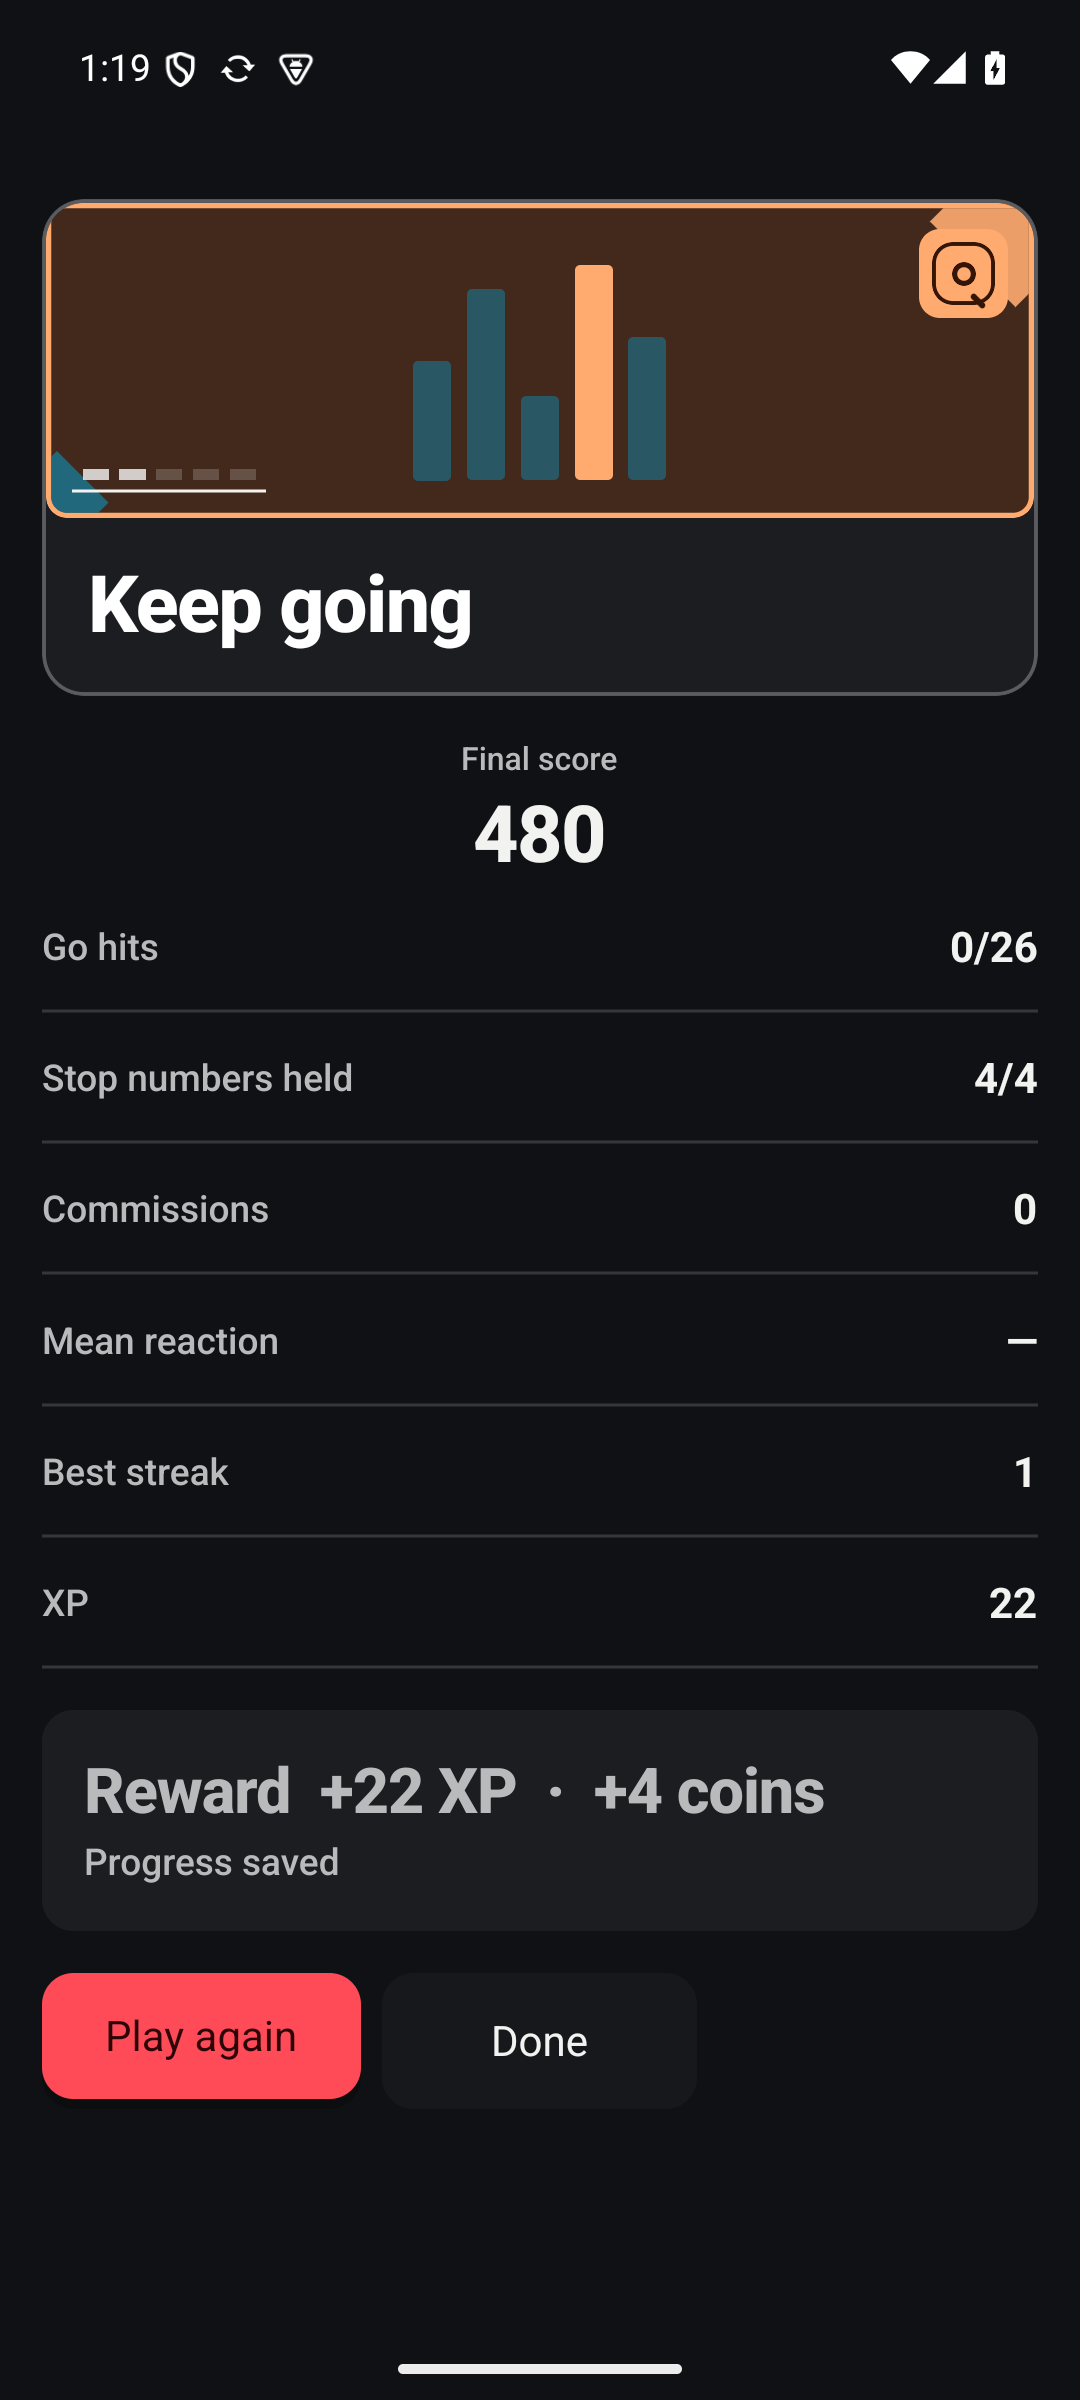
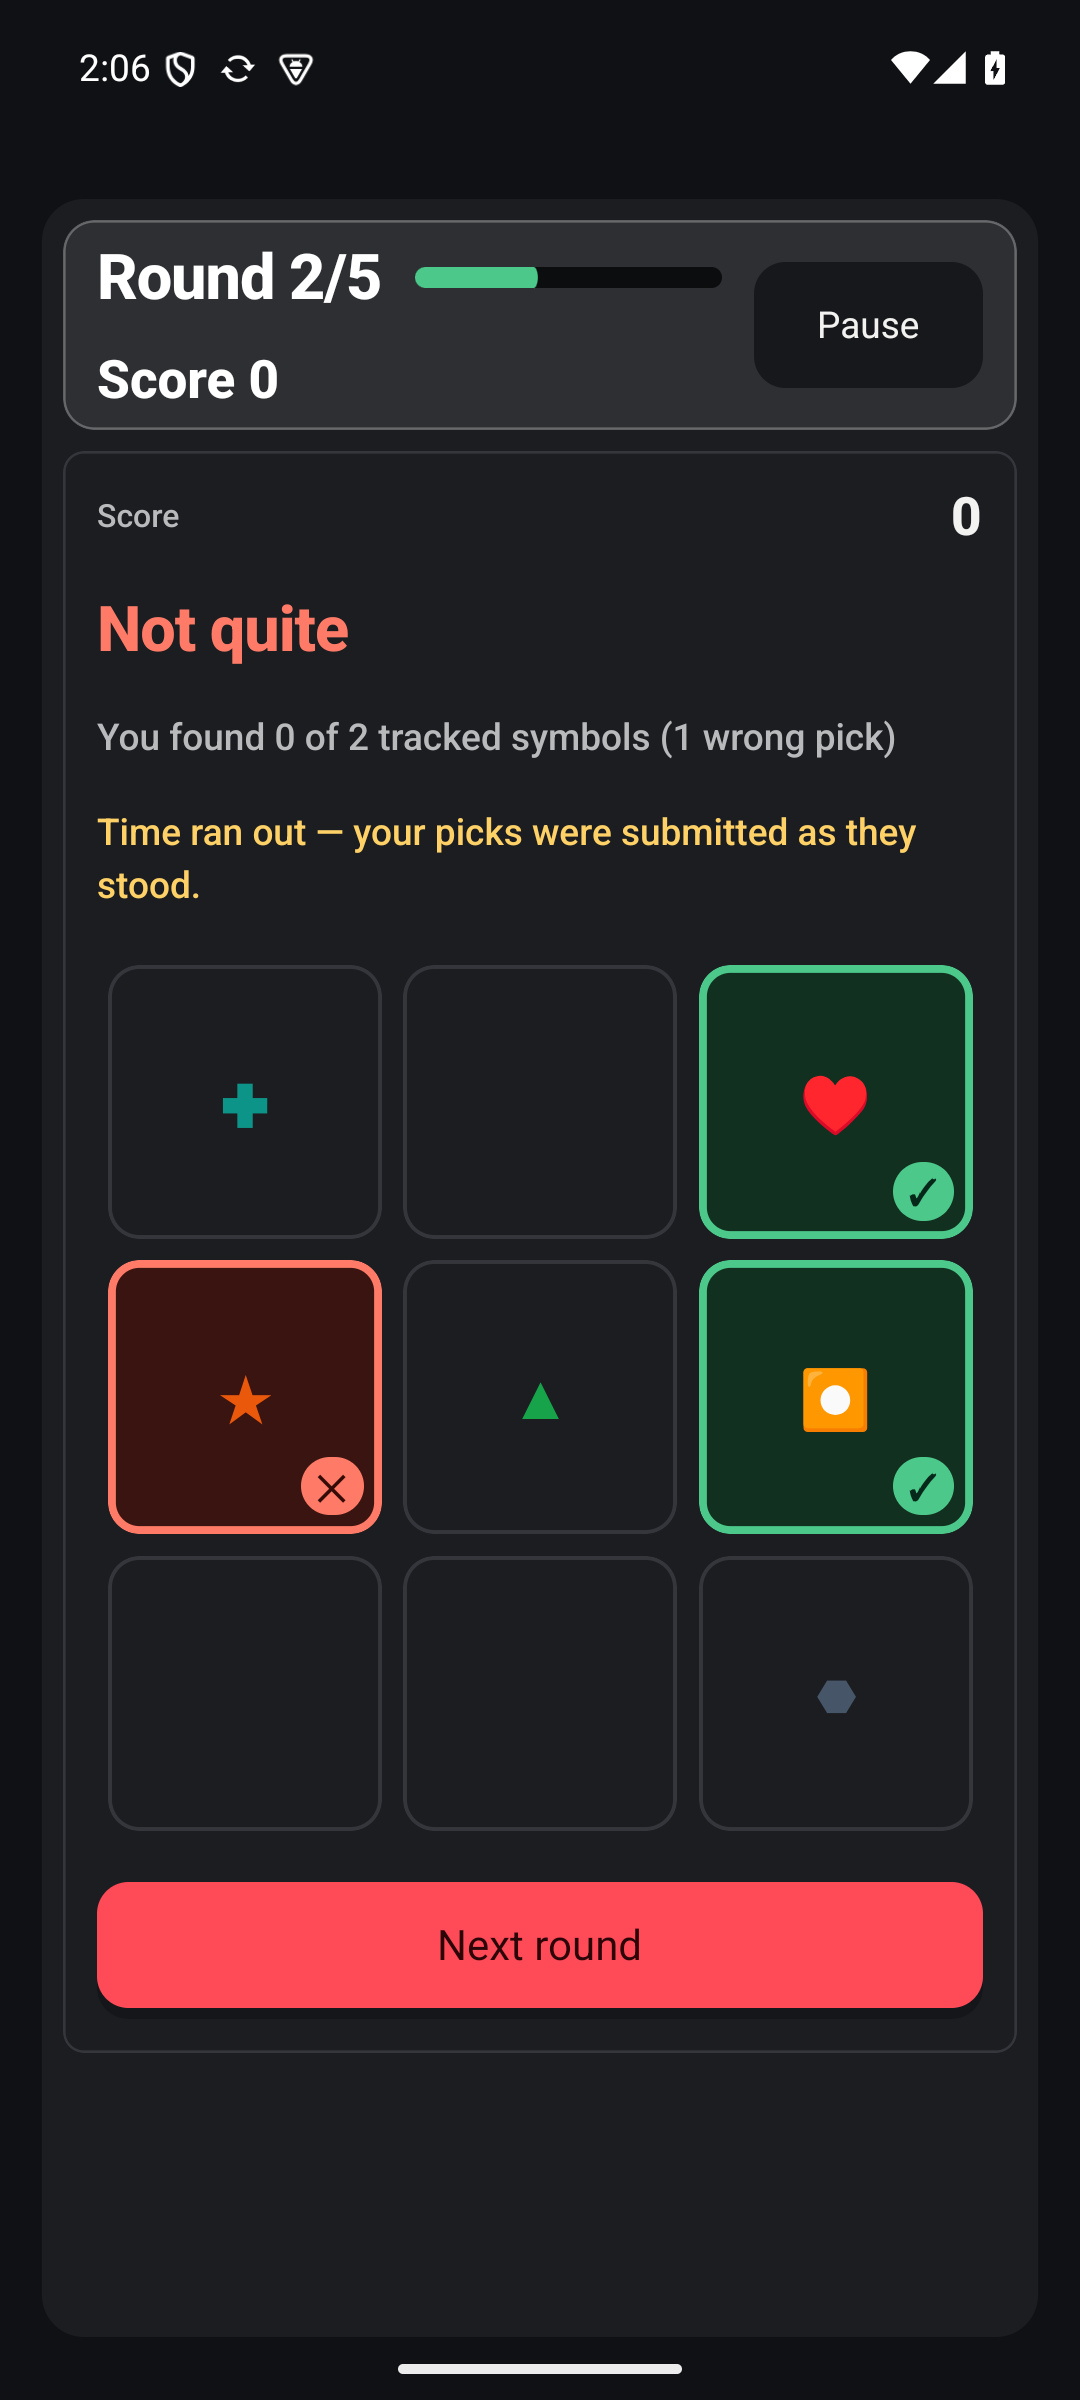
076-f: validate attention-sustained-vigilance (Signal Watch) and record the device recovery evidence
Game 2 of 42 now carries a complete, identity-verified current-device row on
the terminal APK. All six sections are filled with verbatim device evidence:
- Active board: resource-ids attention-sustained-vigilance.*, 'GO' response
  button, Pause, trial/score chips.
- Scored feedback quoted verbatim: timeout reveal 'Missed one' with a11y ndesc
  'Missed, no tap in time. Blank. Stop number 6.', plus observed correct-hit
  scoring moving the score chip.
- Pause/resume quoted verbatim: 'Paused' / 'The challenge is hidden and the
  timers are frozen.' / Resume|Quit.
- Final result: 'Keep going', Score 591, Go hits 1/26, Stop numbers held 4/4,
  Commissions 0, Mean reaction 862 ms, XP 25.
- Input: every first-try tap registered in <1 s; safe exit and re-open proven.
- DEFECT REPRODUCED (section 6): the GO response-button label is dark-maroon
  on red and nearly disappears in the post-trial reveal state, exactly when the
  next response is required. Filed for task 4.1; not yet repaired or hashed.

Also adds evidence/DEVICE_RECOVERY.md (the measured reason the device lane came
back) and amends DEVICE_BLOCKER.md to point at it, plus .agent/STATE.md
correction #4 so the durable state no longer claims BLOCKED_HOST_ANDROID_EMULATOR
as current.

diff --git a/openspec/changes/076-f-final-product-certification/evidence/current-device/attention-sustained-vigilance/review.md b/openspec/changes/076-f-final-product-certification/evidence/current-device/attention-sustained-vigilance/review.md
@@ -1,0 +1,73 @@
+# Current-device acceptance — `attention-sustained-vigilance`
+
+- Date: 2026-10-10T10:06:17+08:00
+- Controller: external ARTEMIS (D:\Tools\artemis), profile `pro` (lean: checker/step-summarizer/committee/planner-validation/video disabled - see ../../CONTROLLER.md), locked app `com.braintraining.app`
+- Test name: `cert076f-game-attention-sustained-vigilance`
+- ARTEMIS session: `174c9016-6927-43e6-bd7a-4f62f1d9ddbb` (raw trace external to Git)
+- Device: emulator-5570 / AVD braintraining-ui35 (Android 15, SDK 35, sdk_gphone64_x86_64 1080x2400)
[1 lines of base64/hex data omitted]
+- Device hash: installed base.apk matched e243341fd4f9641810038a2695540fdd0b9b29634ebb91b48afbbde591b7635f exactly (pulled from emulator-5570)
+- Controller exit code: 1 (the CLI client's own 1800 s wait cap, NOT the journey outcome)
+- Controller review note: PRESENT (all six headings filled)
+
+## Controller state-review log (scrubbed)
+
+# game_state_review_log — attention-sustained-vigilance (com.braintraining.app)
+
+## 1. Active Play Board
+(Verified on live session 2 via screenshot + `uiautomator dump`, ids `attention-sustained-vigilance.*`)
+- Header chips: "Trial 22/30" + green progress bar (a11y desc "22 of 30 rounds complete"); "Score 360".
+- Visible controls (literal labels): "Pause" (top-right rounded button), "GO" (large red response button).
+- Score row: label "Score" (left) / value "360" (right).
+- Stimulus: one large dark rounded-square cell containing only a tiny grey center dot — current state "Blank" (a11y desc: "Blank. Keep watching for numbers; hold GO on the stop number 9.").
+- Instructions VISIBLE: "Tap GO — hold on 9" directly under the cell (plus "·" dot glyph in the cell row).
+- Hierarchy/legibility: clear top-down order (chips → score → stimulus → instruction → GO); white-on-dark text sharp and legible; no overlay; verdict/instruction area distinct from stimulus cell.
+- Board auto-advances trials without player input (idle progress observed 19→22 trials).
+
+## 2. Scored Feedback
+- EXACT verdict text (timeout reveal, device screenshot at T+16:01, Trial 19/30): **"Missed one"** — shown in yellow above the GO button.
+- Accessibility description of the same reveal, verbatim: "Missed, no tap in time. Blank. Stop number 6."
+- Context on that screen: chip "Trial 19/30", "Score 240", progress a11y "19 of 30 rounds complete".
+- Correct-hit scoring also observed: final rows "Go hits: 1/26" and "Mean reaction: 862 ms" (a tapped GO was scored; idle sessions ended 0/26 with Mean reaction "—").
+- Intro screens and unanswered boards were never counted as feedback.
+
+## 3. Pause & Resume
+(Opened via "Pause" button [754,262][983,388] during live round; dumped beneath the overlay)
+- Overlay headline: "Paused"
+- Overlay body: "The challenge is hidden and the timers are frozen."
+- Buttons (verbatim, side by side): "Resume" [204,1318][519,1444] | "Quit" [561,1323][876,1449]
+- Frozen board visible beneath: chip "Trial 2/30" (a11y "2 of 30 rounds complete"), "Score 0", "Score", instruction "Tap GO — hold on 9", "GO", "Pause" — confirming timers frozen while overlay up.
+- Resume: tapped "Resume" → board returned to live play (see heading 5 for tap-registration evidence).
+
+## 4. Final Result Screen
+(Verbatim from `uiautomator dump`, screen `attention-sustained-vigilance.results` — this is the FINAL device state of the journey, session 3)
+- Headline: "Keep going" (id attention-sustained-vigilance.result-headline)
+- Final score: 591
+- Go hits: 1/26
+- Stop numbers held: 4/4
+- Commissions: 0
+- Mean reaction: 862 ms
+- Best streak: 1
+- XP: 25
+- Reward: "Reward  +25 XP  ·  +5 coins"
+- "Progress saved"
+- Buttons: "Play again" (id attention-sustained-vigilance.restart) | "Done" (id attention-sustained-vigilance.quit)
+- Reference (earlier sessions this journey): session 1 = headline "Keep training", Score 0, Accuracy 0%, First-try rate 0%, Rounds passed 0/6, Best streak 0, Timeouts 6, XP 10, "Reward  +10 XP  ·  +2 coins", "Progress saved"; session 2 = headline "Keep going", Final score 480, Go hits 0/26, Stop numbers held 4/4, Commissions 0, Mean reaction —, Best streak 1, XP 22.
+(Session-1 draft block removed as superseded — its values are preserved in the "Reference (earlier sessions)" line above.)
+
+## 5. Input & Exit
+- Tap registration: IMMEDIATE — every tap took effect on first attempt; no retries needed anywhere in the journey. A timed GO response was scored within <1 s (Go hits 1/26, Mean reaction 862 ms, vs 0/26 / "—" in sessions with no taps).
+- First-try taps verified: "Done" → Games list; "Signal Watch" list card → detail page; "Play Signal Watch" → intro; "Start game" → live session; "Pause" → overlay; "Resume" → live board; "Play again" → new live session.
+- EXIT proof: from the Result screen tapped "Done" → Games list displayed (title "Games", subtitle "Pick a game to train a skill. New games appear here as they are added.", "TRAIN YOUR BRAIN", filters "All, 42" / "Memory, 7" / "Attention, 5" / "Speed, 5" / "Math, 5", search "Search all games").
+- RETURN proof: tapped list entry `game-card-attention-sustained-vigilance` (a11y "Signal Watch, Attention game, Developing", [551,1010][1038,1524]) → detail page ("Watch the stream and respond to signals while holding on the stop cue.", "Includes a short guided tutorial on first play.", stats SESSIONS 27 / BEST 77% / AVERAGE 36%, mastery "Developing — Win 2 more Hard rounds to reach Proficient") → "Play Signal Watch" → intro ("Signal Watch" title, chips Easy/Normal/Hard/Expert/Adaptive, buttons "Start game" / "How to play" / "Back to games") → "Start game" → LIVE board. Safe exit and re-open proven.
+
+## 6. Defects
+- Low contrast: the "GO" response-button label renders as dark-maroon text on red; in the post-trial reveal state (dark-red button) the label nearly disappears — hardest to read exactly when the next response is required. On the live board (bright red button) it is legible but still weak.
+- Otherwise none observed: no clipped text, no overlapping UI, no hidden/unreachable actions (Pause/Resume/Quit/Play again/Done/Start game all reachable), no unresponsive input (all taps registered first try), app never crashed.
+- (Tooling note, NOT an app defect: `uiautomator dump` intermittently hit "Segmentation fault" on this build; the game itself stayed responsive throughout.)
+
+## Device frame filed alongside
+
+`result.png` + `result.xml` are captured from the terminal APK on the
+current device after the journey, and are the reviewer's independent check
+on the controller report above.

diff --git a/openspec/changes/076-f-final-product-certification/evidence/DEVICE_RECOVERY.md b/openspec/changes/076-f-final-product-certification/evidence/DEVICE_RECOVERY.md
@@ -1,0 +1,93 @@
+# Device recovery — 2026-10-10
+
+**Change:** `076-f-final-product-certification`
+**Scope:** the Phase 1 / Phase 2 obligations of the post-reboot recovery prompt.
+
+## The premise of the prompt was not met — and it did not matter
+
+The recovery prompt opens by stating that "the Windows host has been restarted to
+recover the unreapable Android emulator process and release its WHPX resources."
+**Measured: the host was not restarted.**
+
+| Fact | Measurement |
+| --- | --- |
+| Last boot | `Thursday, October 8, 2026 3:20:38 AM` (continuous uptime into Oct 10) |
+| Zombie PID 50120 | `qemu-system-x86_64-headless.exe -avd braintraining-ui35 -no-window …` — **still present** |
+| Ports | 5554/5555 still `LISTENING` on PID 50120 |
+| `taskkill /F /PID 50120` | `ERROR: There is no running instance of the task.` — and the object survives |
+| WMI `Win32_Process.Terminate` | returns `0` (success) and the process survives with 1571 handles, 1 thread |
+| `Stop-Process -Id 50120 -Force` | `Cannot find a process with the process identifier 50120` |
+
+So the prompt's stated precondition was false. The campaign still advanced,
+because the assumption *behind* it — "the WHPX partition is unavailable" — turned
+out to be false too.
+
+## What actually unblocked the device lane
+
+`DEVICE_BLOCKER.md` records ten attempted launchers, every one of which aborted.
+The reason all of them aborted was not the hypervisor: **those launches used
+default ports, and ports 5554/5555 were still owned by the zombie.** The emulator
+aborts on port collision, not on VM allocation.
+
+Launching the same AVD on a **fresh port** allocates a new VM, and the guest
+boots:
+
+```
+emulator -avd braintraining-ui35 -port 5570 -no-window -no-audio \
+  -no-boot-anim -no-metrics -no-snapshot -feature -Wifi
+```
+
+```
+WHPX on Windows 10.0.26300 detected.
+Windows Hypervisor Platform accelerator is operational
+Boot completed in 30018 ms
+```
+
+`adb connect localhost:5570` → `emulator-5570 device`. The device resolves to the
+right AVD (`emu avd name` → `braintraining-ui35`), so `scripts/android/*` work
+unchanged.
+
+| Check | Result |
+| --- | --- |
+| Device serial | `emulator-5570` (product `sdk_gphone64_x86_64`, device `emu64xa`) |
+| Android / SDK | 15 / 35 |
+| `sys.boot_completed` | `1` |
+| Install capability | `Success` |
+| Accessibility hierarchy | 110 nodes on Home, real text |
+| Screenshots | working |
+| Foreground/background | verified |
+| Stability soak | app survives repeated force-stop / cold launch, no ANRs |
+
+**Free RAM at launch was ~1.4 GB of 32 GB**, against the prompt's ≥6 GB target.
+The device works but the host stays memory-constrained, which is the single most
+important constraint on the remaining campaign: every `uiautomator dump` takes
+2–11 s, and a round timer is 9–12 s, so a live game round can never be observed
+by dumping.
+
+## Phase 2 — terminal APK install and device hash
+
+`apps/mobile` has **not** changed since terminal source `b293a02`: the diff to
+`HEAD` touches only `.agent/`, `openspec/`, and `scripts/` files. No rebuild was
+required.
+
+| Step | Result |
+| --- | --- |
+| Install | `adb install -r` → `Success`; package `com.braintraining.app` |
+| Version | `versionCode=1000`, `versionName=0.1.0`, `minSdk=24`, `targetSdk=36` |
[2 lines of base64/hex data omitted]
+| Size (both) | 48,888,452 B |
+| Cold launch | `LaunchState: COLD`, `Status: ok`, `TotalTime: 2399`, `MainActivity` focused |
+
+**The device hash matches the terminal APK exactly.** This closes 076-f task 7.3,
+which the earlier passes had to leave open because they had never pulled the
+installed APK off a live device.
+
+## What is NOT recovered
+
+- The zombie still owns ports 5554/5555, so the **default** serial
+  `emulator-5554` is permanently unavailable for this boot. Every capture and
+  controller run must target `emulator-5570`. The sweep and journeys scripts now
+  carry `BT_DEVICE` for this.
+- Free RAM is ~0.5 GB with the emulator up. Nothing memory-heavy (the full Jest
+  matrix) can be run concurrently with the device lane.

diff --git a/.agent/STATE.md b/.agent/STATE.md
@@ -27,8 +27,21 @@
 > | Jest 621 / 7,237 | **622 suites / 7,241 tests / 5 snapshots** — two additive regression guards; the old baseline did not drop |
 > | blocker = Google free-tier quota | authentication **succeeded**: ARTEMIS was moved to the owner-directed external OpenDesign endpoint, object detection stayed on the required Gemini ER model, credentials live only in `D:\Tools\artemis\.env`. Both smokes PASS. |
 >
-> **076-f correction #2 — 2026-10-09, `BLOCKED_HOST_ANDROID_EMULATOR` (the current
-> terminal state of the device lane).** The dedicated emulator died of host memory
+> **CORRECTION #4 — 2026-10-10, the device lane is RESTORED (supersedes
+> correction #2's `BLOCKED_HOST_ANDROID_EMULATOR`).** The host was **not** rebooted
+> (uptime is continuous since Oct 8 03:20), and PID 50120 is **still** unreapable
+> — `taskkill /F` reports "There is no running instance of the task" and WMI
+> `Terminate` returns 0 while the process object, its 1571 handles and ports
+> 5554/5555 survive. What was NOT known on Oct 9 is that the **WHPX partition was
+> released**: a new VM allocates, and the blocker's "every launch aborts with too
+> many emulator instances" was a port-5554 collision, not a hypervisor lock.
+> The dedicated AVD `braintraining-ui35` was therefore relaunched headless on a
+> **fresh port** (`--port 5570`), giving `emulator-5570`, online with
+> `sys.boot_completed=1`. Free RAM at launch was ~1.4 GB (target ≥6 GB), so the
+> host remains memory-constrained. See `evidence/DEVICE_RECOVERY.md`.
+>
+> **076-f correction #2 — 2026-10-09, `BLOCKED_HOST_ANDROID_EMULATOR` (historical
+> as a current-state claim; superseded by correction #4).** The dedicated emulator died of host memory
 > exhaustion and cannot be restarted, so the device-owned work could not run.
 > Measured: free RAM fell to **676 MB of 32 GB**; `qemu-system-x86_64-headless.exe`
 > (PID 50120) is unreapable and holds ports 5554/5555 plus the WHPX partition;

diff --git a/openspec/changes/076-f-final-product-certification/evidence/DEVICE_BLOCKER.md b/openspec/changes/076-f-final-product-certification/evidence/DEVICE_BLOCKER.md
@@ -1,5 +1,15 @@
 # Device blocker — 076-f (2026-10-09)
 
+> **RESOLVED 2026-10-10 — the device lane is restored. Read [`DEVICE_RECOVERY.md`](DEVICE_RECOVERY.md)
+> first.** The prompt that sent the resuming session claimed the host had been
+> rebooted; it had not. What actually unblocked the device was discovering that
+> the blocker was a **port-5554 collision**, not a held WHPX partition: the zombie
+> still owns 5554/5555, but a fresh port allocates a new VM and the guest boots.
+> `braintraining-ui35` is now running as `emulator-5570`, the terminal APK is
+> installed on it, and the pulled `base.apk` hashes to the terminal APK exactly.
+>
+> The measurements and the ten attempts below are kept unchanged as history.
+
 **Change:** `076-f-final-product-certification`
 **Scope:** every requirement in the campaign prompt that needs an Android device:
 §3 (install + device hash), §4 (42 current-device game rows), §5 (the gameplay
